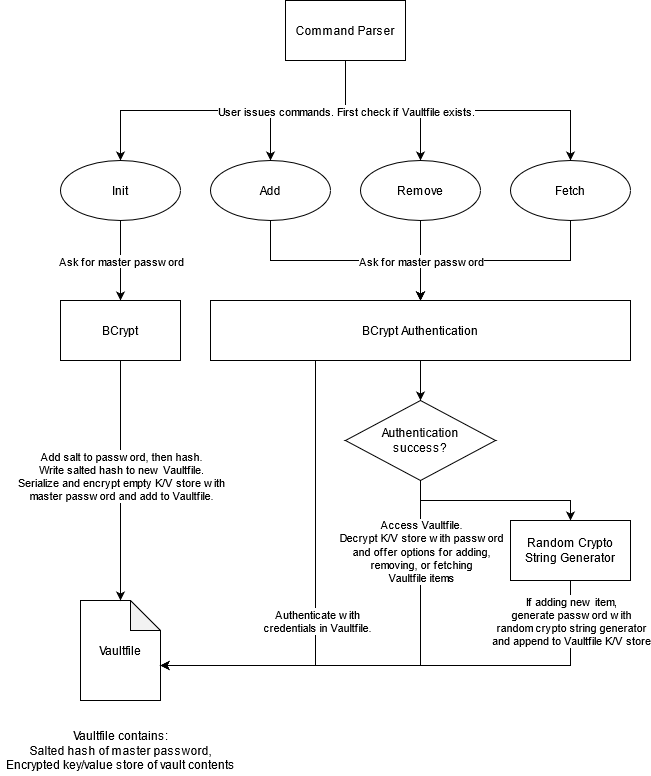
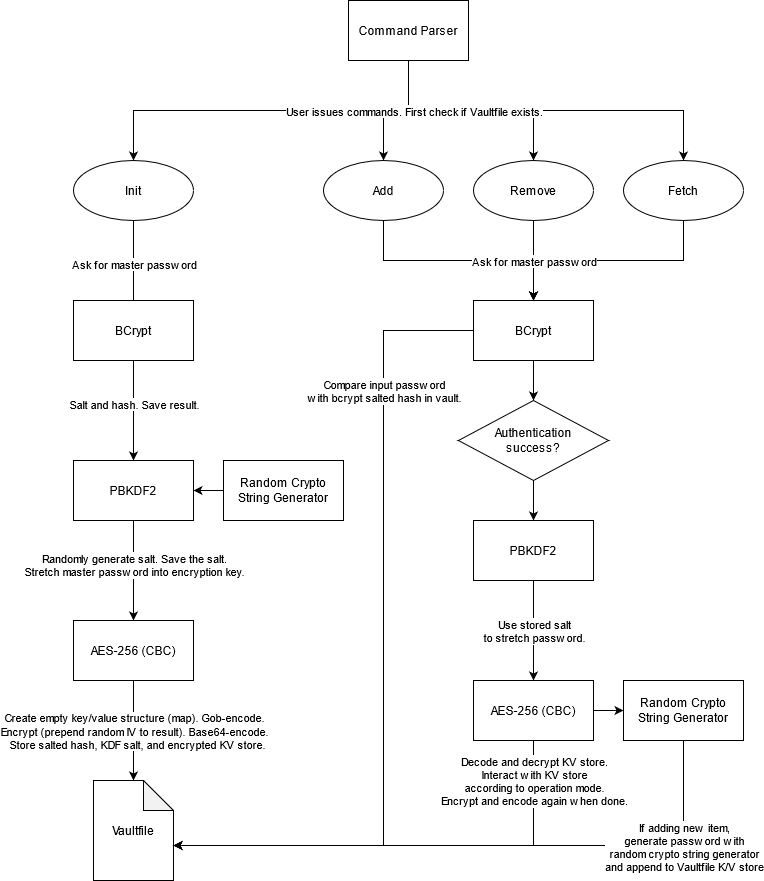
It's done.

diff --git a/main.go b/main.go
@@ -48,7 +48,7 @@ func main() {
 				for inTokens != 1 || err != nil || pwLength < 8 || pwLength > 80 {
 					fmt.Println("Invalid input.")
 					fmt.Println("Enter a length for the new password. (8~80)")
-					inTokens, err = fmt.Scanf("%s", &pwLength)
+					inTokens, err = fmt.Scanf("%d", &pwLength)
 				}
 
 				// now generate the mf password!!